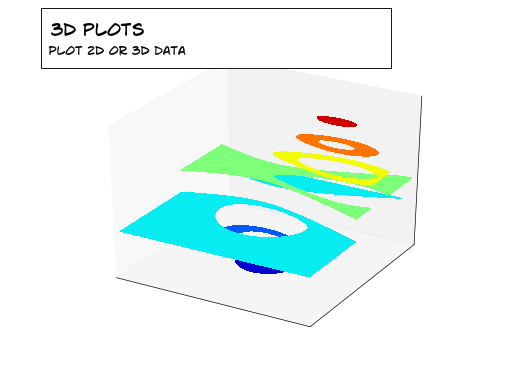
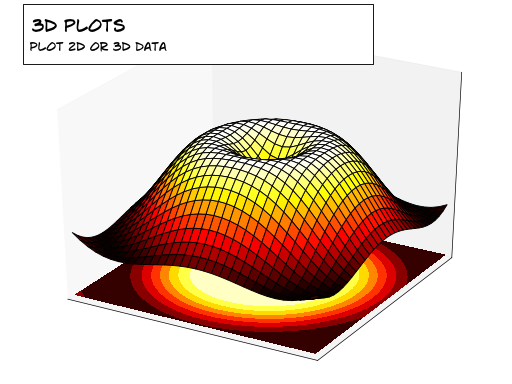
Updated 3D example

diff --git a/intro/matplotlib/scripts/plot3d.py b/intro/matplotlib/scripts/plot3d.py
@@ -1,17 +1,21 @@
 from pylab import *
-from mpl_toolkits.mplot3d import axes3d
+from mpl_toolkits.mplot3d import Axes3D
 
+fig = figure()
+ax = Axes3D(fig)
+X = np.arange(-4, 4, 0.25)
+Y = np.arange(-4, 4, 0.25)
+X, Y = np.meshgrid(X, Y)
+R = np.sqrt(X**2 + Y**2)
+Z = np.sin(R)
 
-
-ax = gca(projection='3d')
-X, Y, Z = axes3d.get_test_data(0.05)
-cset = ax.contourf(X, Y, Z)
-ax.clabel(cset, fontsize=9, inline=1)
-
+ax.plot_surface(X, Y, Z, rstride=1, cstride=1, cmap='hot')
+ax.contourf(X, Y, Z, zdir='z', offset=-2, cmap='hot')
+ax.set_zlim(-2,2)
 plt.xticks([]), plt.yticks([]), 
 ax.set_zticks([])
 
-ax.text2D(-0.05, 1.05, " 3D plots \n\n",
+ax.text2D(0.05, .95, " 3D plots \n\n",
           horizontalalignment='left',
           verticalalignment='top',
           family='Lint McCree Intl BB',
@@ -19,7 +23,7 @@ ax.text2D(-0.05, 1.05, " 3D plots \n\n",
           bbox=dict(facecolor='white', alpha=1.0, width=350,height=60),
           transform = gca().transAxes)
 
-ax.text2D(-0.05, .975, " Plot 2D or 3D data",
+ax.text2D(0.05, .89, " Plot 2D or 3D data",
           horizontalalignment='left',
           verticalalignment='top',
           family='Lint McCree Intl BB',

diff --git a/intro/matplotlib/scripts/plot3d_ex.py b/intro/matplotlib/scripts/plot3d_ex.py
@@ -1,10 +1,17 @@
 from pylab import *
-from mpl_toolkits.mplot3d import axes3d
+from mpl_toolkits.mplot3d import Axes3D
 
-ax = gca(projection='3d')
-X, Y, Z = axes3d.get_test_data(0.05)
-cset = ax.contourf(X, Y, Z)
-xticks([]), yticks([]), ax.set_zticks([])
+fig = figure()
+ax = Axes3D(fig)
+X = np.arange(-4, 4, 0.25)
+Y = np.arange(-4, 4, 0.25)
+X, Y = np.meshgrid(X, Y)
+R = np.sqrt(X**2 + Y**2)
+Z = np.sin(R)
 
-# savefig('../figures/plot3d_ex.png',dpi=64)
+ax.plot_surface(X, Y, Z, rstride=1, cstride=1, cmap='hot')
+ax.contourf(X, Y, Z, zdir='z', offset=-2, cmap='hot')
+ax.set_zlim(-2,2)
+
+# savefig('../figures/plot3d_ex.png',dpi=48)
 show()

diff --git a/intro/matplotlib/matplotlib.rst b/intro/matplotlib/matplotlib.rst
@@ -938,29 +938,35 @@ Click on figure for solution.
 
 .. image:: figures/plot3d_ex.png
    :align: right
+   :target: scripts/plot3d_ex.py
+
+.. admonition:: Hints
+
+   You need to use `contourf
+   <http://matplotlib.sourceforge.net/api/pyplot_api.html#matplotlib.pyplot.contourf>`_
+
+
+Starting from the code below, try to remove reproduce the graphic on the right.
 
 ::
 
-
    from pylab import *
-   from mpl_toolkits.mplot3d import axes3d
+   from mpl_toolkits.mplot3d import Axes3D
 
-   ax = gca(projection='3d')
-   X, Y, Z = axes3d.get_test_data(0.05)
-   cset = ax.contourf(X, Y, Z)
+   fig = figure()
+   ax = Axes3D(fig)
+   X = np.arange(-4, 4, 0.25)
+   Y = np.arange(-4, 4, 0.25)
+   X, Y = np.meshgrid(X, Y)
+   R = np.sqrt(X**2 + Y**2)
+   Z = np.sin(R)
+
+   ax.plot_surface(X, Y, Z, rstride=1, cstride=1, cmap='hot')
+
    show()
 
-**Exercice**
+Click on figure for solution.
 
-  Starting from the code above, try to reproduce the graphic on the right.
-
-**Hints**
-
-  You only need to remove all ticks (and there are new ones).
-
-**Solution**
-
-  Click `here <scripts/plot3d_ex.py>`_ for the solution
 
 
 Text
